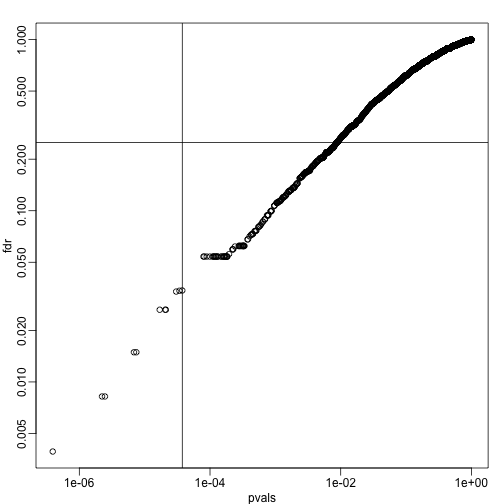
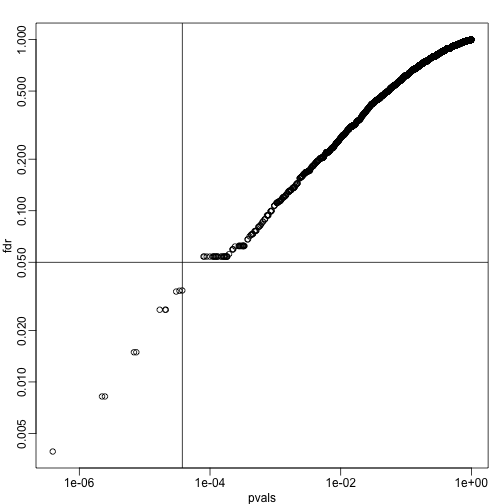
adding multiple_testing to book

Changed region(s): [[0.0893, 0.506, 0.9524, 0.5357]]

diff --git a/manuscript/multiple_testing.md b/manuscript/multiple_testing.md
@@ -277,7 +277,7 @@ sum(pvals < 0.05/10000)
 
 Note that by requiring a FWER {$$}\leq{/$$} 0.05 we are practically assuring 0 power (sensitivy) and that the specifcity reqruiement is over-kill. A widely used alternative to the FWER is the false discover rate (FDR). The idea behind FDR is to cosider the random variable {$$}Q \equiv V/R{/$$} with {$$}Q=0{/$$} when {$$}R=0{/$$} and {$$}V=0{/$$}. Note that {$$}R=0{/$$} (nothing called significant) implies {$$}V=0{/$$} (no false positives). So {$$}Q{/$$} is a random variable that can take values between 0 and 1 and we can define a rate by considering the average of {$$}Q{/$$}. To better understand this concept. Here we compute {$$}Q{/$$} for the procedure: call everything p-value < 0.05 significant.
 
-Before running the simulation we are going to _vectortize_ the code. Meaning that instead of using `sapply` to run `m` tests, we will create a matrix with all data in one call to sample. This code runs several times faster than the code above which is necessary here due to the fact that we will be generating several simulations.
+Before running the simulation we are going to _vectortize_ the code. Meaning that instead of using `sapply` to run `m` tests, we will create a matrix with all data in one call to sample. This code runs several times faster than the code above which is necessary here due to the fact that we will be generating several simulations. Understanding this chuck of code, and how it equivalent to the code above using `sapply` will take a you long way in helping you code efficiently in R.
 
 
 ```r
@@ -364,7 +364,7 @@ As we consider a lower a lower p-value cut-off, the number of feautres detected 
 
 ### Benjamini-Hochberg (Advanced)
 
-We want to construct a procedure that guarantees the FDR to be below a certain level {$$}\alpha{/$$}. For any given {$$}\alpah{/$$}, the Benjamini-Hochberg (1995) procedure is very practicaly because it simply requires we are able compute p-values for each of the individual tests and this permits a  procedures to be defined.
+We want to construct a procedure that guarantees the FDR to be below a certain level {$$}\alpha{/$$}. For any given {$$}\alpha{/$$}, the Benjamini-Hochberg (1995) procedure is very practicaly because it simply requires we are able compute p-values for each of the individual tests and this permits a  procedures to be defined.
 
 The procedure is as follows:order the p-values in increasing order: {$$}p_{(1)},\dots,p_{(m)}. Then define {/$$}k{$$} to be the largest {/$$}i{$$} for which
 
@@ -406,7 +406,7 @@ we simply type the following:
 fdr <- p.adjust(pvals, method="fdr")
 mypar(1,1)
 plot(pvals,fdr,log="xy")
-abline(h=0.25,v=cutoff) ##cutoff was computed above
+abline(h=alpha,v=cutoff) ##cutoff was computed above
 ```
 
 ![plot of chunk unnamed-chunk-18](images/multiple_testing-unnamed-chunk-18-1.png) 
@@ -480,11 +480,11 @@ In the approach proposed by Storey we condition on having a non-empty list, whic
 \mbox{pFDR} = E\left( \frac{V}{R} \mid R>0\right) 
 {$$}
 
-A second distinction is that while Benjamin and Hochberg's procedure controls under the worse case scenario in which all null hypotheses are true ({/$$}m=m_0{$$}), Storey proposes we actually try to estimate {/$$}m_0{$$} from the data. Because in high-througput experiment we have so much data, this is certainly posible. The general idea is to use pick a relativel high value p-value cut-off, call it {/$$}\lamba{$$}, and assume that tests obtaining p-values {/$$}>\lamba{$$} are moslty from  cases in which the null hypothesis hold. We can then estimate {/$$}\pi_0 = m_0/m{$$} as: 
+A second distinction is that while Benjamin and Hochberg's procedure controls under the worse case scenario in which all null hypotheses are true ({/$$}m=m_0{$$}), Storey proposes we actually try to estimate {/$$}m_0{$$} from the data. Because in high-througput experiment we have so much data, this is certainly posible. The general idea is to use pick a relativel high value p-value cut-off, call it {/$$}\lambda{$$}, and assume that tests obtaining p-values {/$$}>\lambda{$$} are moslty from  cases in which the null hypothesis hold. We can then estimate {/$$}\pi_0 = m_0/m{$$} as: 
 {/$$}
 \hat{\pi}_0 = \frac{\#\left\{p_i > \lambda \right\} }{ (1-\lambda) m }
 {$$}
-Ther are more sophisticated procedures than this, but they follow the same general idea. Here is an example setting {/$$}\lamba=0.1{$$}. Using the p-values computed above we have:
+Ther are more sophisticated procedures than this, but they follow the same general idea. Here is an example setting {/$$}\lambda=0.1{$$}. Using the p-values computed above we have:
 
 
 ```r
